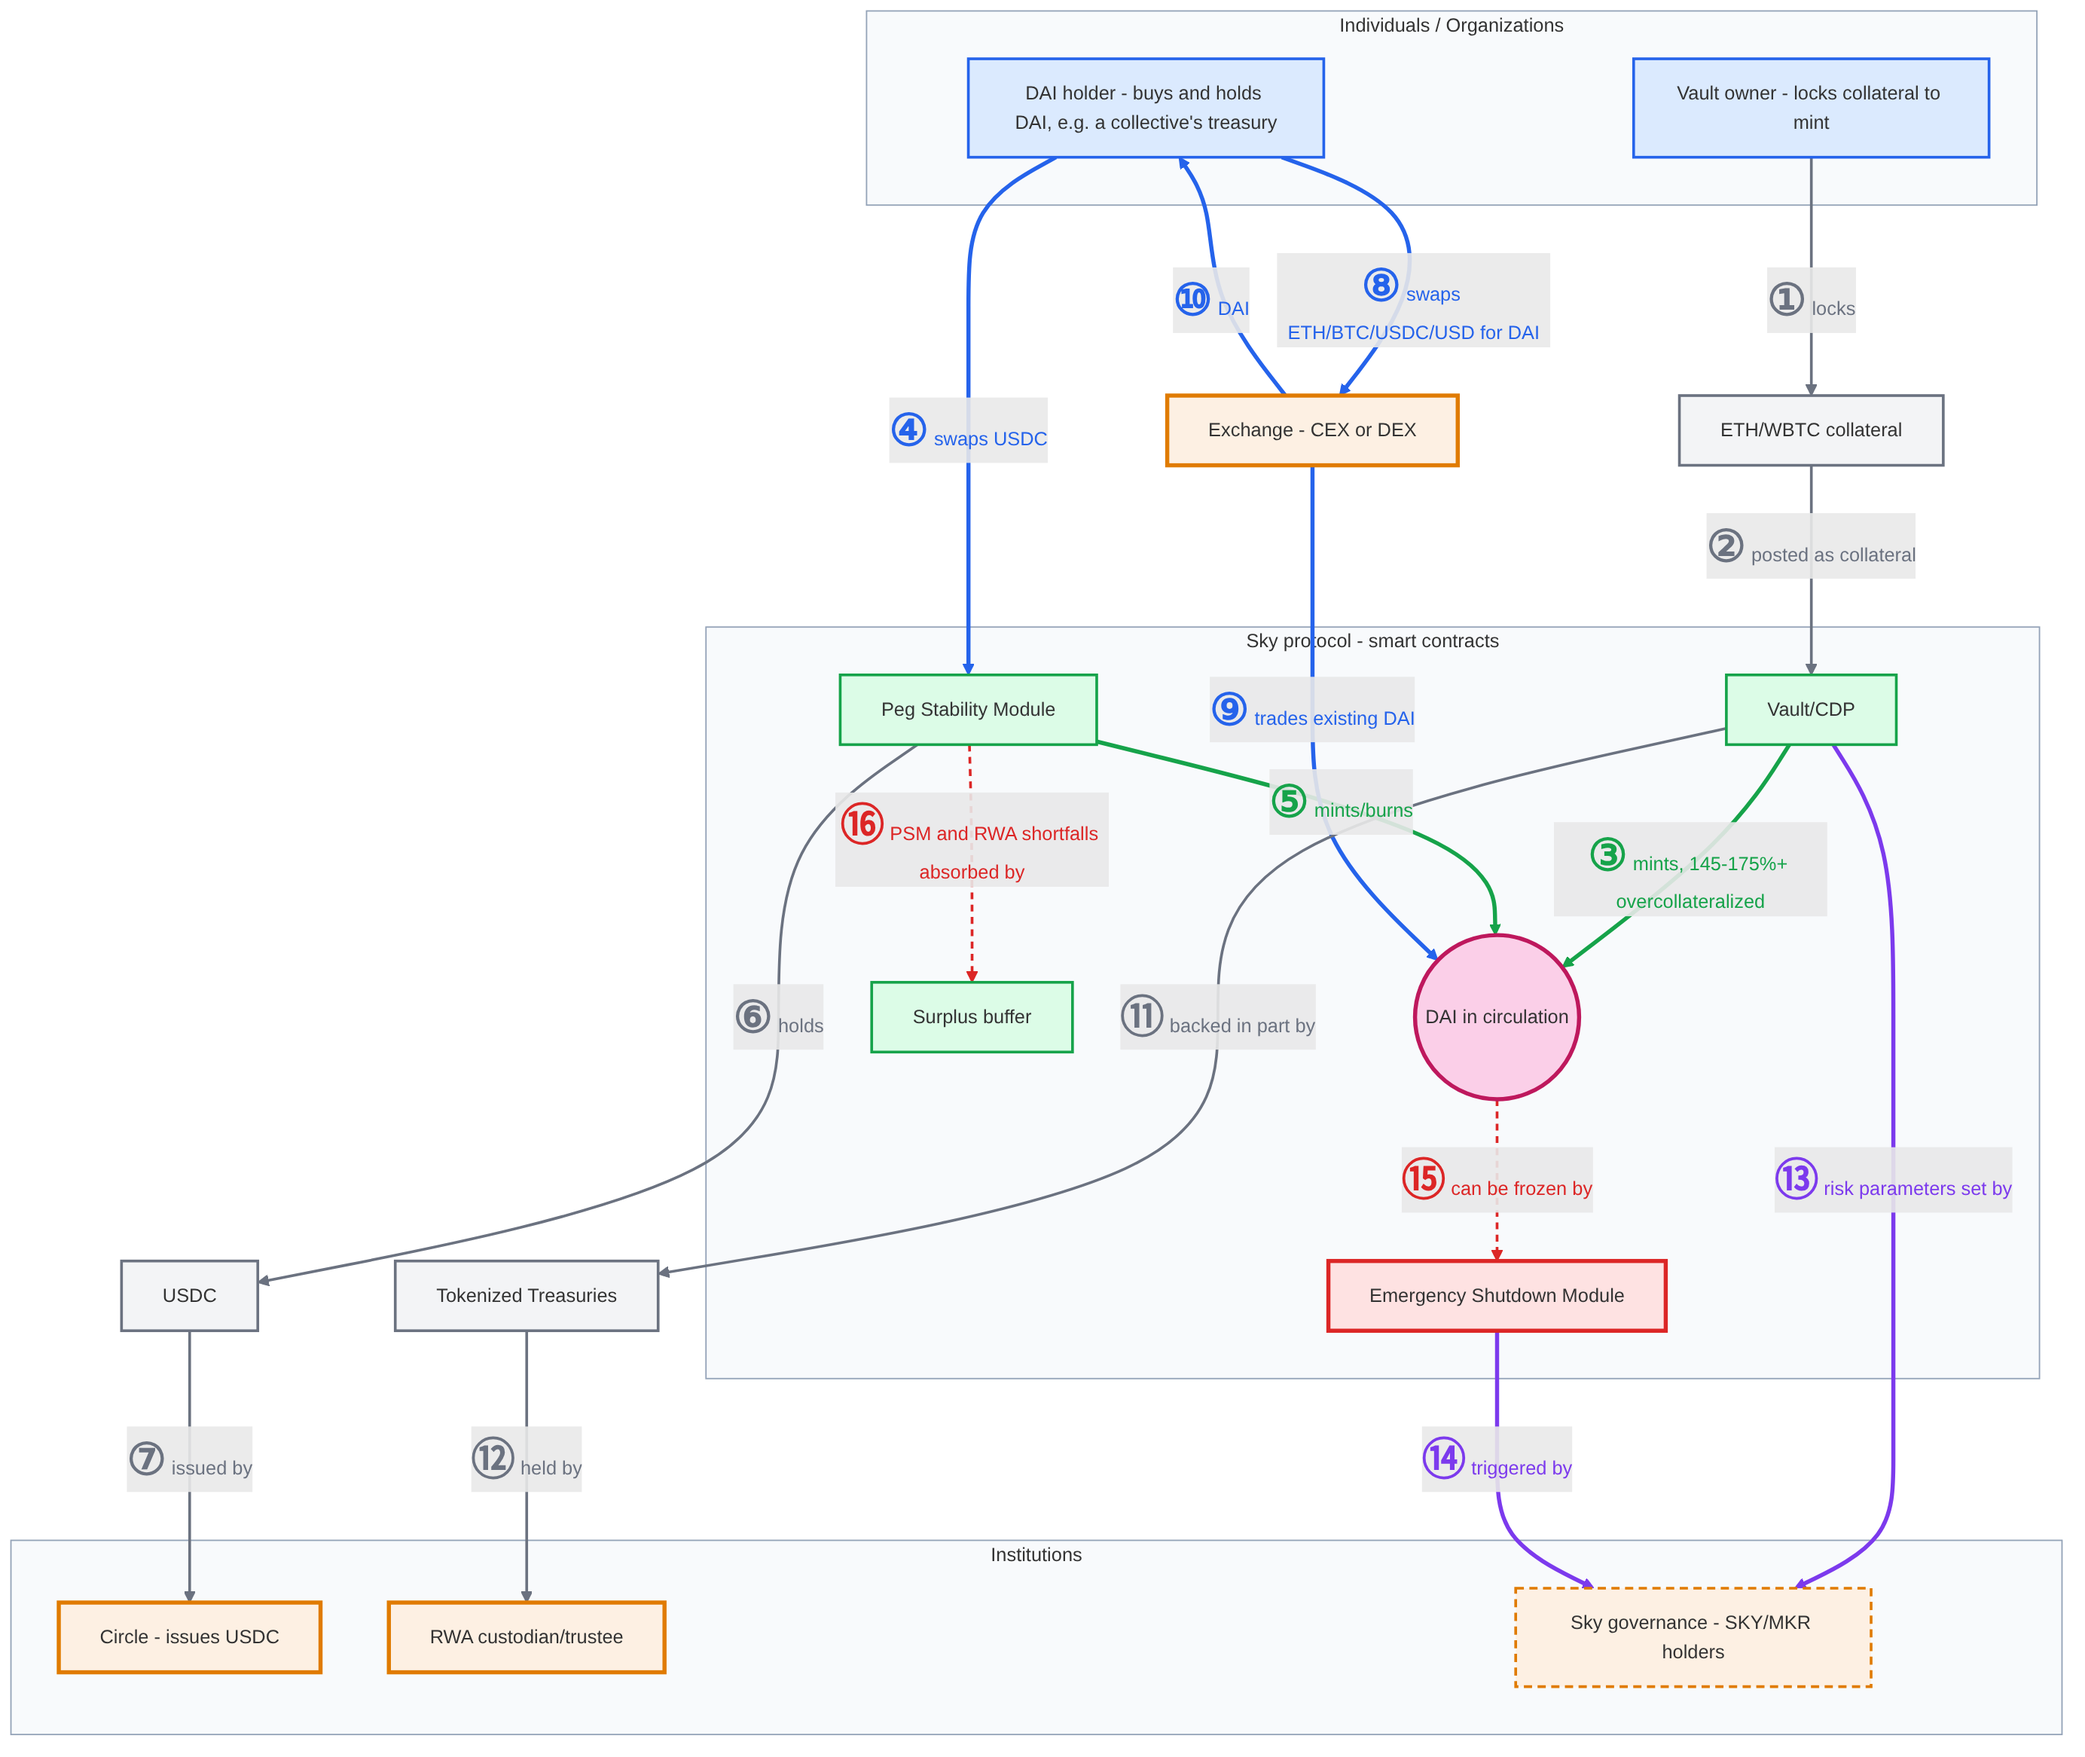
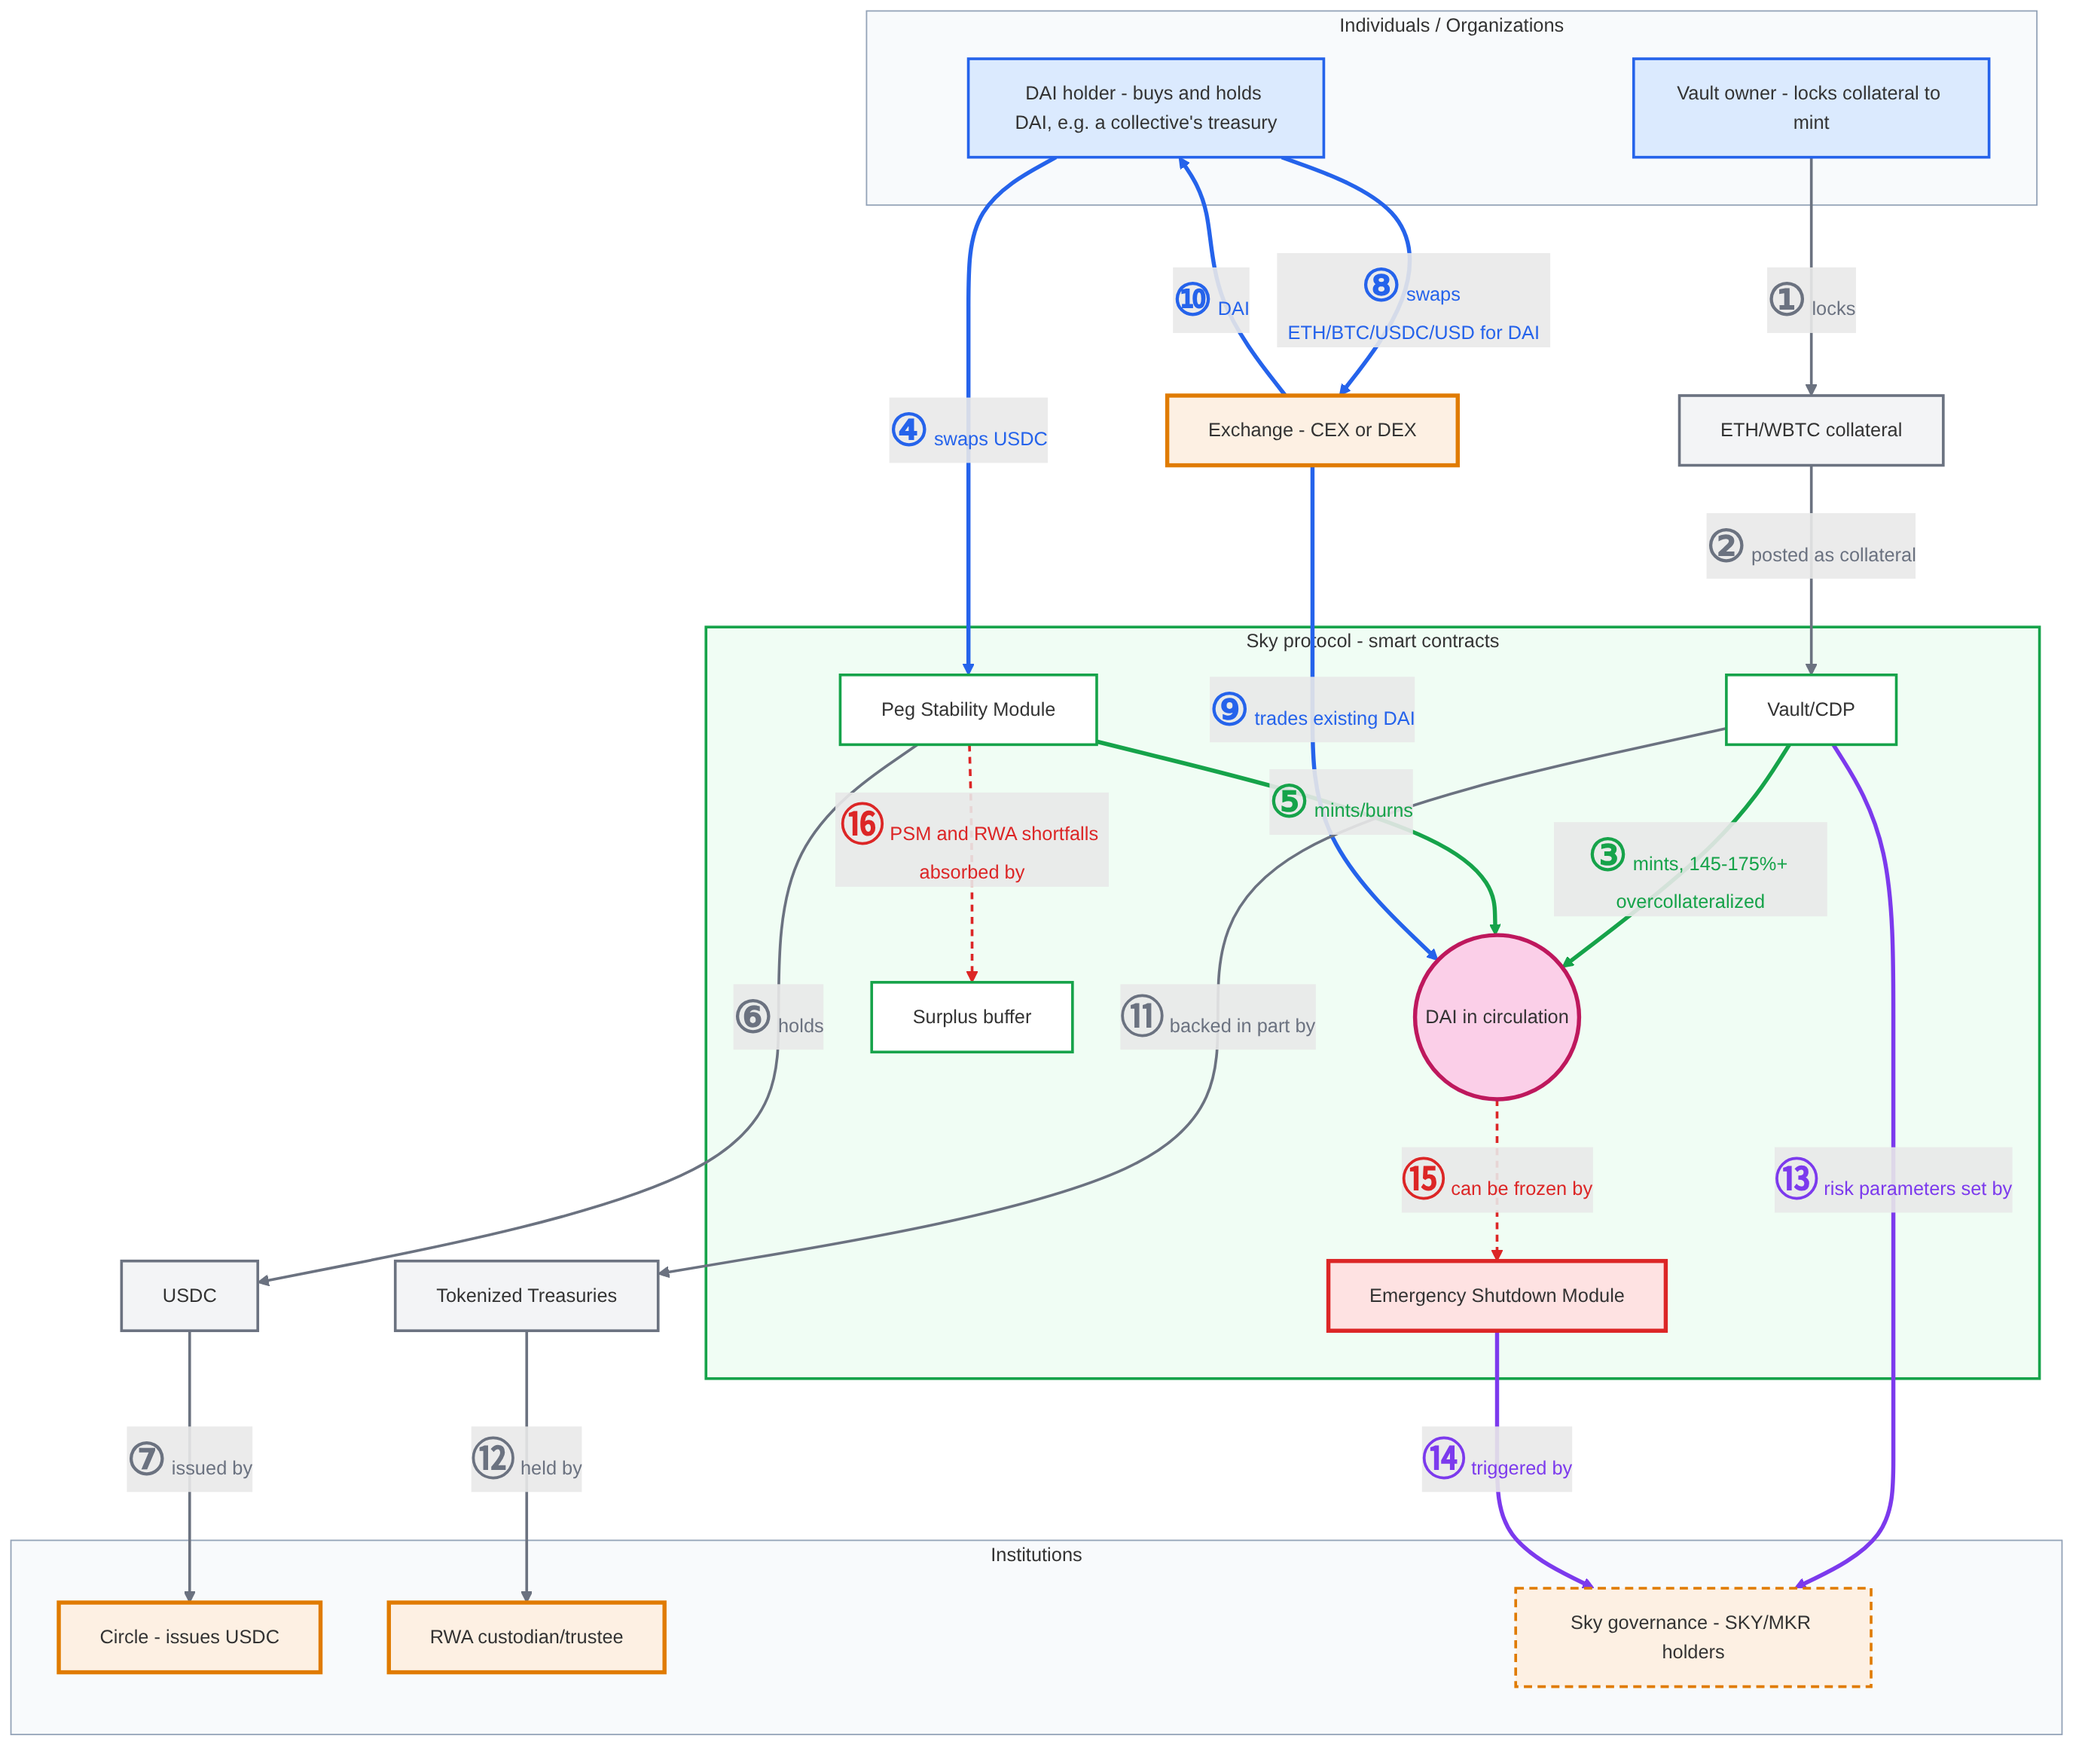
docs: draw the DAI diagram's smart contracts in a green box and update the legend
Tint the Sky protocol container green and make its ordinary modules white so "inside the
green box" means smart-contract code, including the pink DAI token and the red circuit
breaker. Legend now says so.

Changed region(s): [[0.8078, 0.3705, 0.9321, 0.4322], [0.4039, 0.5557, 0.5282, 0.6175], [0.4039, 0.3705, 0.5282, 0.4322]]

diff --git a/governance/commons-hub-pattern.md b/governance/commons-hub-pattern.md
@@ -1698,7 +1698,8 @@ in the middle, institutions at the bottom, with sixteen numbered flows"></a>
 *DAI's components and flows. The numbers follow the walkthrough below.*
 
 Boxes: $\color{blue}{\text{blue}}$ = people and organizations ·
-$\color{green}{\text{green}}$ = code · $\color{gray}{\text{gray}}$ = assets ·
+$\color{green}{\text{green}}$ = smart-contract code (everything in the green box, including the
+pink and red boxes) · $\color{gray}{\text{gray}}$ = assets ·
 $\color{deeppink}{\text{pink}}$ = DAI · $\color{orange}{\text{solid orange}}$ = can cut you off ·
 $\color{orange}{\text{dashed orange}}$ = can be legally targeted ·
 $\color{red}{\text{red}}$ = circuit breaker.
